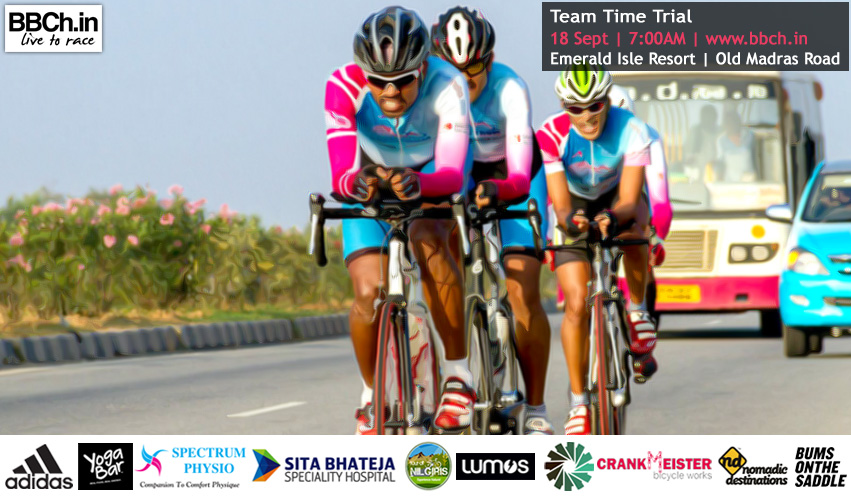
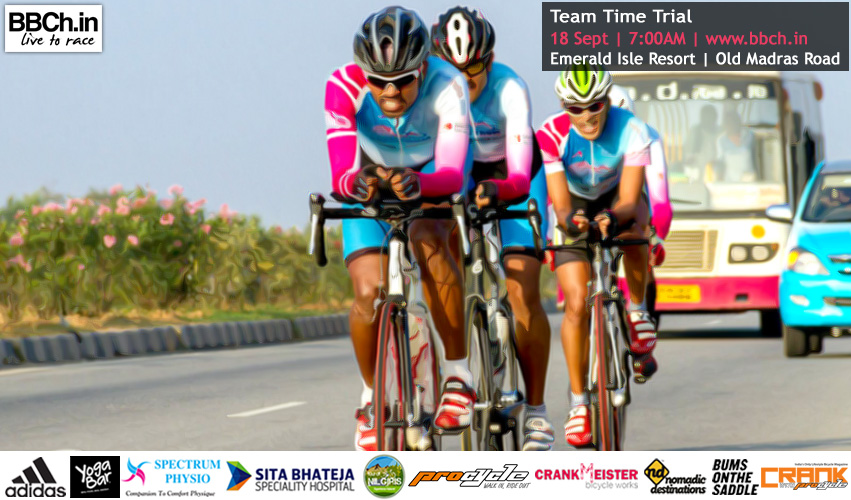
RAce 09
Race 09 updated and added sponsors

Changed region(s): [[0.0, 0.87, 1.0, 1.0]]

diff --git a/BBCh16Race09.htm b/BBCh16Race09.htm
@@ -2,7 +2,7 @@
 <html lang="en-US">
 <head>
     <meta charset="UTF-8">
-    <title>BBCh16 Race #09 - MTB XC Endurance Race</title>
+    <title>BBCh16 Race #09 - MTB Dirt Race</title>
     <link rel="shortcut icon" type="image/x-icon" href="Images/favicon.png" />
     <link rel="stylesheet" type="text/css" href="style.css" media="all" />
     <link rel="stylesheet" type="text/css" href="style/color/red.css" media="all" />
@@ -90,7 +90,7 @@
                                 <li><a href="BBCh16Race06.htm#BBCh16_06_CritResult">BBCh16 : 06 - Criterium Race</a></li>
                                 <li><a href="BBCh16Race07.htm#BBCh16_07_MTBXCResult">BBCh16 : 07 - MTB XC Race</a></li>
                                 <li><a href="BBCh16Race08.htm#BBCh16_08_TTTResult">BBCh16 : 08 - TTT Race</a></li>
-                                <li><a href="BBCh16Race09.htm#BBCh16_09_MTBEpicResult">BBCh16 : 09 - MTB Epic Race</a></li>
+                                <li><a href="BBCh16Race09.htm#BBCh16_09_MTBXCResult">BBCh16 : 09 - MTB XC Race</a></li>
                                 <li><a href="BBCh16Race10.htm#BBCh16_10_NandiEpicResult">BBCh16 : 10 - Nandi Epic Race</a></li>
                             </ul>   
                         </li>
@@ -147,7 +147,7 @@
             <div class="full-width">
                 <div style="width: 700px; float: left">
                     <h2>
-                        BBCh16 Race #09 - MTB XC Endurance Race</h2>    
+                        BBCh16 Race #09 - Cross-Country Olympic (XCO) Race</h2>    
                 </div>
                 <div style="float: right; width: 70px">
                     <h5>
@@ -157,7 +157,7 @@
                  <div class="clear">
                 </div>
                 <div align="center">
-                    <img alt="BBCh16:09 MTB XC Race" src="Images/BBCh16Race02Banner.jpg" style="border: 0" />
+                    <img alt="BBCh16:09 MTB XC Race" src="Images/BBCh16Race09Banner.jpg" style="border: 0" />
                 </div>
                 <br />
                 <div style="width: 48%; float: left">
@@ -165,12 +165,22 @@
                     <br />
                     <span class="CaptionText">When : </span>Sunday, 16th October 2016<br />
                     <span class="CaptionText">Where : </span>
-                    <a href="https://goo.gl/maps/iMMdcjejA7z" target=_blank>Yelahanka (Next to Presidency School)</a>
+                    <a href="https://goo.gl/maps/iMMdcjejA7z" target=_blank>Avalahalli State Forest, Yelahanka (500 Mtr ahead of Presidency School)</a>
                     <br />
                     <span class="CaptionText">Reporting Time : </span>6:00AM<br />
-                    <span class="CaptionText">Race Start : </span>7:30AM<br />
-                    <span class="CaptionText">Lap Distance : </span>6Km <br />
-                    <span class="CaptionText">Laps : </span>Elite & Amateur: 5 Laps, Women & U-18: 3 Laps<br />
+                    <span class="CaptionText">Lap Distance : </span>6km<br /><br />
+
+                    <span class="CaptionText">-: Elite :-</span><br />
+                    Race Start   : 7:30AM<br />
+                    Laps     : 5<br />
+
+                    <span class="CaptionText">-: Amateur :-</span><br />
+                    Race Start   : 7:35AM<br />
+                    Laps     : 4<br />
+
+                    <span class="CaptionText">-: U-18 & Women :-</span><br />
+                    Race Start   : 7:40AM<br />
+                    Laps     : 3<br />
                     <span class="CaptionText">Cut-off Time for all : </span>9:30AM<br /><br />
 
                     <span class="CaptionText">Note : </span>
@@ -190,7 +200,7 @@
                 </div>
                 <div style="width: 50%; float: left">
                     <span class="CaptionText2">Awesome Sponsors & Partners</span>
-                    <img alt="Sponsor Banner" src="Images/BBCh16_Race06_SP_MTB_Banner.gif" style="box-shadow: 0px 0px 10px #888888" />
+                    <img alt="Sponsor Banner" src="Images/BBCh16_Race06_SP_Road_Banner.gif" style="box-shadow: 0px 0px 10px #888888" />
                 </div>
                  <div class="clear">
                 </div>
@@ -199,7 +209,7 @@
                     </span>
                     
                     <p>
-                    The last road race of the awesome Bangalore Bicycle Championships 2016 season is going with a MTB XC Endurance Race.<br />
+                    The last MTB Race of the awesome Bangalore Bicycle Championships 2016 season is going with a Cross-Country Olympic (XCO) Race.<br />
                     <br />
                     Get your race face on people and get ready for a rocking at the Bangalore
                     Bicycle Championships.
@@ -439,9 +449,9 @@
                  <hr />
                  <br />
                  <div style="width: 700px; float: left">
-                    <a name="BBCh16_09_MTBEpicResult"></a>
+                    <a name="BBCh16_09_MTBXCResult"></a>
                     <h2>
-                        BBCh16 Race #09 - XC Endurance Race Result</h2>
+                        BBCh16 Race #09 - Cross-Country Olympic (XCO) Result</h2>
                 </div>
                 <div class="clear">
                 </div>

diff --git a/Sponsors.htm b/Sponsors.htm
@@ -89,7 +89,7 @@
                                 <li><a href="BBCh16Race06.htm#BBCh16_06_CritResult">BBCh16 : 06 - Criterium Race</a></li>
                                 <li><a href="BBCh16Race07.htm#BBCh16_07_MTBXCResult">BBCh16 : 07 - MTB XC Race</a></li>
                                 <li><a href="BBCh16Race08.htm#BBCh16_08_TTTResult">BBCh16 : 08 - TTT Race</a></li>
-                                <li><a href="BBCh16Race09.htm#BBCh16_09_MTBEpicResult">BBCh16 : 09 - MTB Epic Race</a></li>
+                                <li><a href="BBCh16Race09.htm#BBCh16_09_MTBXCResult">BBCh16 : 09 - MTB XC Race</a></li>
                                 <li><a href="BBCh16Race10.htm#BBCh16_10_NandiEpicResult">BBCh16 : 10 - Nandi Epic Race</a></li>
                             </ul>   
                         </li>
@@ -163,48 +163,61 @@
                             <img alt="Adidas" src="Images/SponsorAdidas.jpg" style="border: 0" />
                             </div>
                         </a>
-                        <br />
-                        <br />
+                        <br /><br />
+                        <a href="#" target="_blank">
+                            <div>
+                            <h1>MAGAZINE PARTNER</h1>
+                            <img alt="Crank" src="Images/SponsorCrank.jpg" style="border: 0" />
+                            </div>
+                        </a>
+                        <br /><br />
+                        <a href="#" target="_blank">
+                            <div>
+                            <h1>BICYCLE STORE PARTNER</h1>
+                            <img alt="ProCycle" src="Images/SponsorProCycle.jpg" style="border: 0" />
+                            </div>
+                        </a>
+                        <br /><br />
                         <h1>CHAMPIONSHIP PARTNER</h1>
                         <a href="http://www.tourofnilgiris.com/" target="_blank">
                             <div id="TFN"></div>
                         </a>
-                        <br />
+                        <br /><br />
                         <a href="http://www.yogabars.in/" target="_blank">
                             <div>
                             <h1>NUTRITION PARTNER</h1>
                             <img alt="Yoga Bar" src="Images/SponsorYogaBar.jpg" style="border: 0" />
                             </div>
                         </a>
-                        <br />
+                        <br /><br />
                         <a href="http://iwearlumos.com/India/" target="_blank">
                             <div>
                             <h1>ACCESSORIES PARTNER</h1>
                             <img alt="Lumos" src="Images/SponsorLumos.jpg" style="border: 0; height: 110px" />
                             </div>
                         </a>
-                        <br />
+                        <br /><br />
                         <a href="http://www.crankmeisterbicycles.com/" target="_blank">
                             <div>
                             <h1>SERVICING PARTNER</h1>
                             <img alt="CrankMeister" src="Images/SponsorCrankMeister.jpg" style="border: 0; height: 110px" />
                             </div>
                         </a>
-                        <br />
+                        <br /><br />
                         <a href="http://veloscope.in/" target="_blank">
                             <div>
                             <h1>PHOTOGRAPHY PARTNER</h1>
                             <img alt="Velosope" src="Images/SponsorVeloscope.jpg" style="border: 0; height: 130px" />
                             </div>
                         </a>
-                        <br />
+                        <br /><br />
                         <a href="#" target="_blank">
                             <div>
                             <h1>ADVENTURE PARTNER</h1>
                             <img alt="Nomadic Destination" src="Images/SponsorND.jpg" style="border: 0" />
                             </div>
                         </a>
-                        <br />
+                        <br /><br />
                         <a href="http://www.bumsonthesaddle.com/" target="_blank">
                             <div>
                             <h1>START LINE SUPPORT PARTNER</h1>

diff --git a/index.html b/index.html
@@ -117,7 +117,7 @@
                                 <li><a href="BBCh16Race06.htm#BBCh16_06_CritResult">BBCh16 : 06 - Criterium Race</a></li>
                                 <li><a href="BBCh16Race07.htm#BBCh16_07_MTBXCResult">BBCh16 : 07 - MTB XC Race</a></li>
                                 <li><a href="BBCh16Race08.htm#BBCh16_08_TTTResult">BBCh16 : 08 - TTT Race</a></li>
-                                <li><a href="BBCh16Race09.htm#BBCh16_09_MTBEpicResult">BBCh16 : 09 - MTB Epic Race</a></li>
+                                <li><a href="BBCh16Race09.htm#BBCh16_09_MTBXCResult">BBCh16 : 09 - MTB XC Race</a></li>
                                 <li><a href="BBCh16Race10.htm#BBCh16_10_NandiEpicResult">BBCh16 : 10 - Nandi Epic Race</a></li>
                             </ul>
                         </li>
@@ -206,7 +206,7 @@
                     </div>
                     <div class="showcase-caption">
                         MTB Race (Dirt)<br />
-                        Epic Endurance 60/80km<br />
+                        Cross-Country Olympic (XCO)<br />
                         October 16th | Yalahannka - Avalahalli Forest
                     </div>
                 </div>
@@ -530,6 +530,12 @@
                 </a>
                 <a href="Sponsors.htm">
                     <img class="left" alt="BOTS" src="Images/SponsorBOTS.jpg" style="border: 0; height: 100px" />
+                </a>
+                <a href="Sponsors.htm">
+                    <img class="left" alt="Crank" src="Images/SponsorCrank.jpg" style="border: 0; height: 100px" />
+                </a>
+                <a href="Sponsors.htm">
+                    <img class="left" alt="ProCycle" src="Images/SponsorProCycle.jpg" style="border: 0; height: 100px" />
                 </a>
                 <!--<a href="Sponsors.htm">
                     <img class="left" alt="Vyoma" src="Images/SponsorVyoma.jpg" style="border: 0" />

diff --git a/BBChCalendar.htm b/BBChCalendar.htm
@@ -89,7 +89,7 @@
                                 <li><a href="BBCh16Race06.htm#BBCh16_06_CritResult">BBCh16 : 06 - Criterium Race</a></li>
                                 <li><a href="BBCh16Race07.htm#BBCh16_07_MTBXCResult">BBCh16 : 07 - MTB XC Race</a></li>
                                 <li><a href="BBCh16Race08.htm#BBCh16_08_TTTResult">BBCh16 : 08 - TTT Race</a></li>
-                                <li><a href="BBCh16Race09.htm#BBCh16_09_MTBEpicResult">BBCh16 : 09 - MTB Epic Race</a></li>
+                                <li><a href="BBCh16Race09.htm#BBCh16_09_MTBXCResult">BBCh16 : 09 - MTB XC Race</a></li>
                                 <li><a href="BBCh16Race10.htm#BBCh16_10_NandiEpicResult">BBCh16 : 10 - Nandi Epic Race</a></li>
                             </ul>   
                         </li>
@@ -211,7 +211,7 @@
                                 October 16th
                             </td>
                             <td class="TblCommonText">
-                                Endurance 60-80km
+                                Cross-Country Olympic (XCO)
                             </td>
                             <td class="TblCommonText">
                                 Yelahanka (Avalahalli Forest)

diff --git a/BBCh14Race01.htm b/BBCh14Race01.htm
@@ -89,7 +89,7 @@
                                 <li><a href="BBCh16Race06.htm#BBCh16_06_CritResult">BBCh16 : 06 - Criterium Race</a></li>
                                 <li><a href="BBCh16Race07.htm#BBCh16_07_MTBXCResult">BBCh16 : 07 - MTB XC Race</a></li>
                                 <li><a href="BBCh16Race08.htm#BBCh16_08_TTTResult">BBCh16 : 08 - TTT Race</a></li>
-                                <li><a href="BBCh16Race09.htm#BBCh16_09_MTBEpicResult">BBCh16 : 09 - MTB Epic Race</a></li>
+                                <li><a href="BBCh16Race09.htm#BBCh16_09_MTBXCResult">BBCh16 : 09 - MTB XC Race</a></li>
                                 <li><a href="BBCh16Race10.htm#BBCh16_10_NandiEpicResult">BBCh16 : 10 - Nandi Epic Race</a></li>
                             </ul>   
                         </li>

diff --git a/BBCh14Race02.htm b/BBCh14Race02.htm
@@ -89,7 +89,7 @@
                                 <li><a href="BBCh16Race06.htm#BBCh16_06_CritResult">BBCh16 : 06 - Criterium Race</a></li>
                                 <li><a href="BBCh16Race07.htm#BBCh16_07_MTBXCResult">BBCh16 : 07 - MTB XC Race</a></li>
                                 <li><a href="BBCh16Race08.htm#BBCh16_08_TTTResult">BBCh16 : 08 - TTT Race</a></li>
-                                <li><a href="BBCh16Race09.htm#BBCh16_09_MTBEpicResult">BBCh16 : 09 - MTB Epic Race</a></li>
+                                <li><a href="BBCh16Race09.htm#BBCh16_09_MTBXCResult">BBCh16 : 09 - MTB XC Race</a></li>
                                 <li><a href="BBCh16Race10.htm#BBCh16_10_NandiEpicResult">BBCh16 : 10 - Nandi Epic Race</a></li>
                             </ul>   
                         </li>

diff --git a/BBCh14Race03.htm b/BBCh14Race03.htm
@@ -89,7 +89,7 @@
                                 <li><a href="BBCh16Race06.htm#BBCh16_06_CritResult">BBCh16 : 06 - Criterium Race</a></li>
                                 <li><a href="BBCh16Race07.htm#BBCh16_07_MTBXCResult">BBCh16 : 07 - MTB XC Race</a></li>
                                 <li><a href="BBCh16Race08.htm#BBCh16_08_TTTResult">BBCh16 : 08 - TTT Race</a></li>
-                                <li><a href="BBCh16Race09.htm#BBCh16_09_MTBEpicResult">BBCh16 : 09 - MTB Epic Race</a></li>
+                                <li><a href="BBCh16Race09.htm#BBCh16_09_MTBXCResult">BBCh16 : 09 - MTB XC Race</a></li>
                                 <li><a href="BBCh16Race10.htm#BBCh16_10_NandiEpicResult">BBCh16 : 10 - Nandi Epic Race</a></li>
                             </ul>   
                         </li>

diff --git a/BBCh14Race04.htm b/BBCh14Race04.htm
@@ -89,7 +89,7 @@
                                 <li><a href="BBCh16Race06.htm#BBCh16_06_CritResult">BBCh16 : 06 - Criterium Race</a></li>
                                 <li><a href="BBCh16Race07.htm#BBCh16_07_MTBXCResult">BBCh16 : 07 - MTB XC Race</a></li>
                                 <li><a href="BBCh16Race08.htm#BBCh16_08_TTTResult">BBCh16 : 08 - TTT Race</a></li>
-                                <li><a href="BBCh16Race09.htm#BBCh16_09_MTBEpicResult">BBCh16 : 09 - MTB Epic Race</a></li>
+                                <li><a href="BBCh16Race09.htm#BBCh16_09_MTBXCResult">BBCh16 : 09 - MTB XC Race</a></li>
                                 <li><a href="BBCh16Race10.htm#BBCh16_10_NandiEpicResult">BBCh16 : 10 - Nandi Epic Race</a></li>
                             </ul>   
                         </li>

diff --git a/BBCh14Race05.htm b/BBCh14Race05.htm
@@ -89,7 +89,7 @@
                                 <li><a href="BBCh16Race06.htm#BBCh16_06_CritResult">BBCh16 : 06 - Criterium Race</a></li>
                                 <li><a href="BBCh16Race07.htm#BBCh16_07_MTBXCResult">BBCh16 : 07 - MTB XC Race</a></li>
                                 <li><a href="BBCh16Race08.htm#BBCh16_08_TTTResult">BBCh16 : 08 - TTT Race</a></li>
-                                <li><a href="BBCh16Race09.htm#BBCh16_09_MTBEpicResult">BBCh16 : 09 - MTB Epic Race</a></li>
+                                <li><a href="BBCh16Race09.htm#BBCh16_09_MTBXCResult">BBCh16 : 09 - MTB XC Race</a></li>
                                 <li><a href="BBCh16Race10.htm#BBCh16_10_NandiEpicResult">BBCh16 : 10 - Nandi Epic Race</a></li>
                             </ul>   
                         </li>

diff --git a/BBCh14Race06.htm b/BBCh14Race06.htm
@@ -89,7 +89,7 @@
                                 <li><a href="BBCh16Race06.htm#BBCh16_06_CritResult">BBCh16 : 06 - Criterium Race</a></li>
                                 <li><a href="BBCh16Race07.htm#BBCh16_07_MTBXCResult">BBCh16 : 07 - MTB XC Race</a></li>
                                 <li><a href="BBCh16Race08.htm#BBCh16_08_TTTResult">BBCh16 : 08 - TTT Race</a></li>
-                                <li><a href="BBCh16Race09.htm#BBCh16_09_MTBEpicResult">BBCh16 : 09 - MTB Epic Race</a></li>
+                                <li><a href="BBCh16Race09.htm#BBCh16_09_MTBXCResult">BBCh16 : 09 - MTB XC Race</a></li>
                                 <li><a href="BBCh16Race10.htm#BBCh16_10_NandiEpicResult">BBCh16 : 10 - Nandi Epic Race</a></li>
                             </ul>   
                         </li>

diff --git a/BBCh14Race07.htm b/BBCh14Race07.htm
@@ -89,7 +89,7 @@
                                 <li><a href="BBCh16Race06.htm#BBCh16_06_CritResult">BBCh16 : 06 - Criterium Race</a></li>
                                 <li><a href="BBCh16Race07.htm#BBCh16_07_MTBXCResult">BBCh16 : 07 - MTB XC Race</a></li>
                                 <li><a href="BBCh16Race08.htm#BBCh16_08_TTTResult">BBCh16 : 08 - TTT Race</a></li>
-                                <li><a href="BBCh16Race09.htm#BBCh16_09_MTBEpicResult">BBCh16 : 09 - MTB Epic Race</a></li>
+                                <li><a href="BBCh16Race09.htm#BBCh16_09_MTBXCResult">BBCh16 : 09 - MTB XC Race</a></li>
                                 <li><a href="BBCh16Race10.htm#BBCh16_10_NandiEpicResult">BBCh16 : 10 - Nandi Epic Race</a></li>
                             </ul>   
                         </li>

diff --git a/BBCh15Race01.htm b/BBCh15Race01.htm
@@ -89,7 +89,7 @@
                                 <li><a href="BBCh16Race06.htm#BBCh16_06_CritResult">BBCh16 : 06 - Criterium Race</a></li>
                                 <li><a href="BBCh16Race07.htm#BBCh16_07_MTBXCResult">BBCh16 : 07 - MTB XC Race</a></li>
                                 <li><a href="BBCh16Race08.htm#BBCh16_08_TTTResult">BBCh16 : 08 - TTT Race</a></li>
-                                <li><a href="BBCh16Race09.htm#BBCh16_09_MTBEpicResult">BBCh16 : 09 - MTB Epic Race</a></li>
+                                <li><a href="BBCh16Race09.htm#BBCh16_09_MTBXCResult">BBCh16 : 09 - MTB XC Race</a></li>
                                 <li><a href="BBCh16Race10.htm#BBCh16_10_NandiEpicResult">BBCh16 : 10 - Nandi Epic Race</a></li>
                             </ul>   
                         </li>
